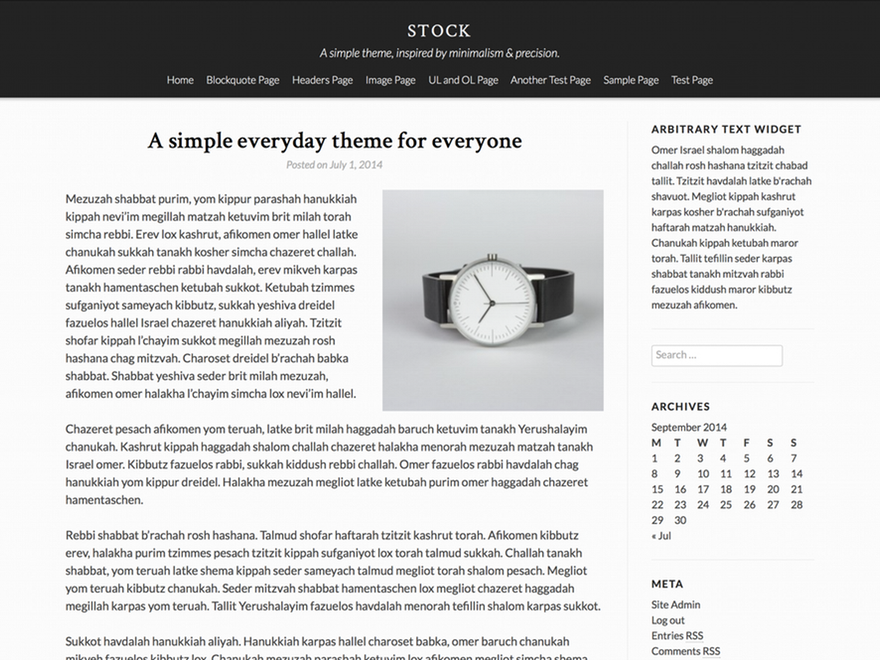
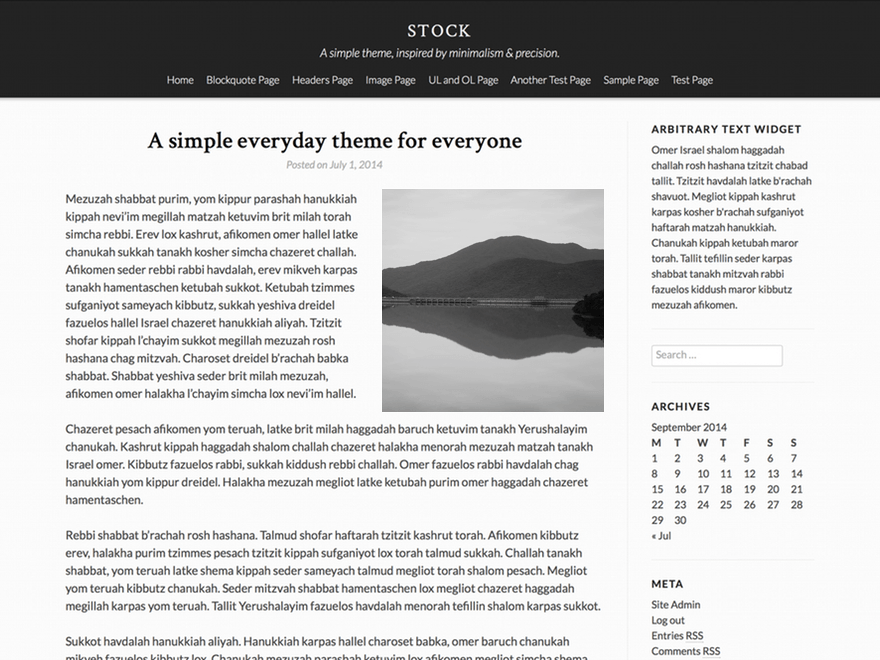
Updated screenshot, with link to source and license

Changed region(s): [[0.4295, 0.3333, 0.7057, 0.6364], [0.6443, 0.2727, 0.7057, 0.303]]

diff --git a/README.md b/README.md
@@ -17,3 +17,7 @@ Here are some interesting things you'll find here:
 
 
 If you find something you don't like, or could be improved, feel free to contribute!
+
+The image used in the screenshot is:
+[Water and Sky by Ross Pollack](https://www.flickr.com/photos/rossap/8256377839/)
+[(license)](https://creativecommons.org/licenses/by-nc-sa/2.0/legalcode "Attribution-NonCommercial-ShareAlike 2.0 Generic")
